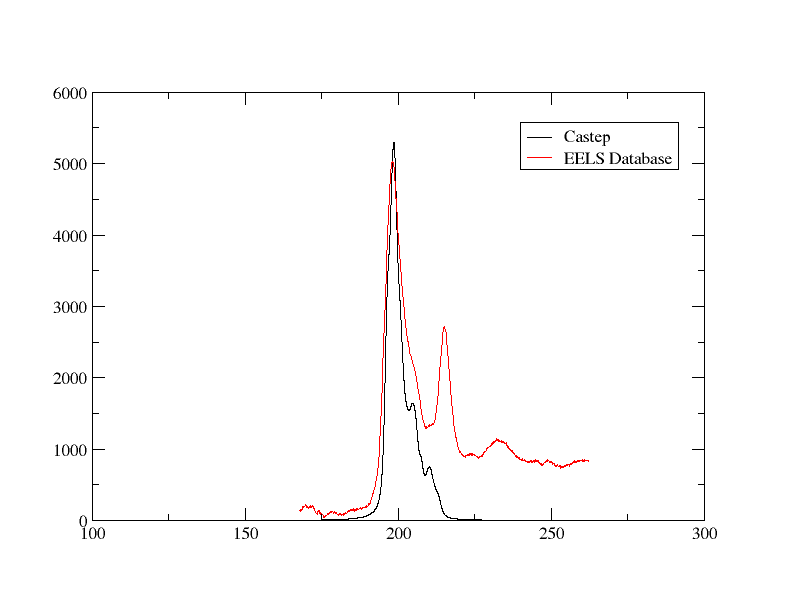
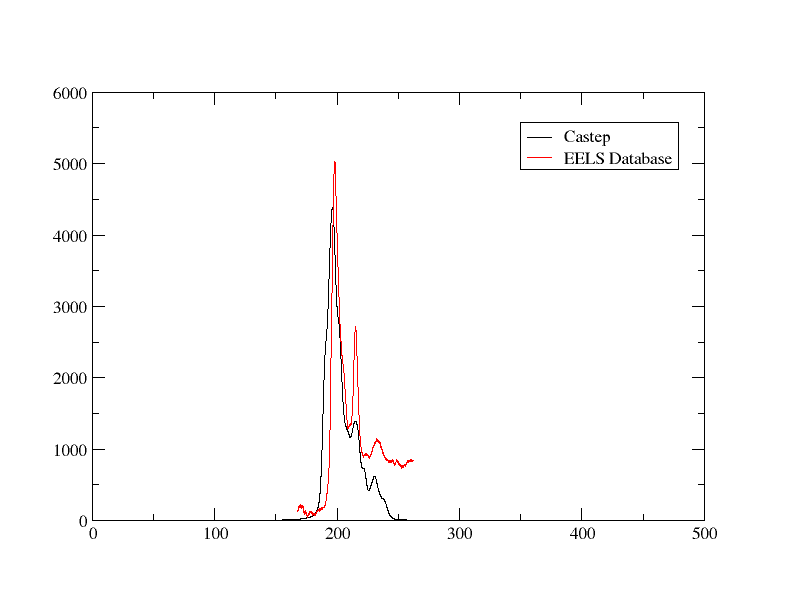
Rewrote for what I did to get nicer results

diff --git a/docs/tutorials/Coreloss/Coreloss.md b/docs/tutorials/Coreloss/Coreloss.md
@@ -121,13 +121,13 @@ B 2|1.2|12|14|16|20:21(qc=8){1s1.00}
 
 to calculate the core edge data factoring in the missing 1s electron.
 !!! note
-    Your potential may be different, depending on your version of Castep etc. - but don't worry as the procedure is the same.
+    Your potential may be different, depending on your version of Castep etc. - but don't worry, as the procedure is the same.
 
 Before we re-run Castep, add the line
 
-`CHARGE : +1`
+`CHARGE : -1`
 
-in the `cbn.param` file - this must be done to maintain charge neutrality.  Next, re-run Castep. Let's have a quick look at the pseudopotential report of boron in `cbn.castep`
+to the `cbn.param` file - this must be done to maintain charge neutrality.  Next, re-run Castep. Let's have a quick look at the pseudopotential report of boron in `cbn.castep`
 
 ```
 ============================================================                
@@ -163,18 +163,17 @@ You should notice that the energies in the 2s and 2p orbitals are lower, the bet
 Now, re-run Optados. This create the same files as before. Again, let's focus on the boron result. The output file `bn_B1K1_core_edge.dat` now starts like:
 
 ```
--0.1658927622868E+02    0.0000000000000E+00    0.0000000000000E+00    0.0000000000000E+00    0.2380874466795E-04    0.2380871874215E-04    0.4761746341010E-04
--0.1657927571493E+02    0.0000000000000E+00    0.0000000000000E+00    0.0000000000000E+00    0.2381712134151E-04    0.2381709540197E-04    0.4763421674348E-04
-
+-16.879627404257498        0.0000000000000000        4.3418325679994708E-005
+-16.869627177952179        0.0000000000000000        4.3433042280034070E-005
 ```
 
-This time, there are 6 columns: the first 2 are the normal broadened data, the 3rd is the sum of those 2, the next 2 are the instrumentation-broadened data and the 6th column is the sum of the previous 2 columns again. We are only interested in the 1st and 4th column (counting energy as the 0th) for this tutorial. Plotting it with the same batch file as [above](Coreloss.md#plot_bat) (with the 2nd block being "1:5" instead of "1:3" to reflect the different column used)  yields us this graph:
+The columns represent the same information as before. Plotting it with the same batch file as [above](Coreloss.md#plot_bat) yields us this graph:
 
 ![1s missing core edge](1s_missing.png){width="50%"}
 
 ## Supercell
 
-The periodic images of the core-hole will interact with one another.  As this is unphysical, we need to increase the distance between the core-holes. This is done by creating a supercell.  To do this, we will create a 2x2x1 supercell. There are multiple ways of doing this, but this tutorial will cover how it can be done using [Vesta](https://jp-minerals.org/vesta/en/). First, upload the `cell` file we used to Vesta. From the top of the toolbar, go into `Edit -> Edit Data -> Unit cell...`. This should open up a window that looks like this
+The periodic images of the core-hole will interact with one another.  As this is unphysical, we need to increase the distance between the core-holes. This is done by creating a supercell.  To do this, we will create a 2x2x2 supercell. There are multiple ways of doing this, but this tutorial will cover how it can be done using [Vesta](https://jp-minerals.org/vesta/en/). First, upload the `cell` file we used to Vesta. From the top of the toolbar, go into `Edit -> Edit Data -> Unit cell...`. This should open up the window below
 
 ![Edit unit cell window](cell_window.png)
 
@@ -184,7 +183,7 @@ Click `Transform...`. This opens up a new window
 
 To create the 2x2x2 supercell, the transformation matrix is rather simple: make the diagonal values 2 like in the figure above (so it becomes 2x larger in all directions) and click `Ok`. Select `Search atoms in the new unit-cell and add them as new sites` in the next pop-up window.
 
-Now that the supercell has been generated, we must save it and turn it into a cell file. Click `File -> Export Data` and save it as  `cbn.cif` file (saving it as a `cell` file is not an option). We can use `cif2cell cbn.cif` to get information on how to make the new cell - we can change the `cell` file to look like this
+Now that the supercell has been generated, we must save it and turn it into a cell file. Click `File -> Export Data` and save it as  `cbn.cif` file (saving it as a `cell` file is not an option). We can use `cif2cell cbn.cif` to get information on how to make the new cell. We change `cbn.cell` to:
 
 *cbn.cell*
 ```
@@ -225,7 +224,7 @@ spectral_kpoint_mp_grid 5 5 5
 
 With double the size of the supercell, you may also halve the kpoints: this allows it to be calculated faster without losing accuracy. However, it will still take significantly longer to calculate.
 
-Specifying 1 of the boron atoms to be called `B:exi` and making changing the potential block to only affect that means that we simulate only 1 of the boron atoms losing that electron - by doing this we prevent the interaction problem mentioned above. Re-run Castep and Optados. There will now be 16 output files, rather than just 2 - there is a core edge output for every atom - `bn_ B 1    K1     B:exi_core_edge.dat` is the core edge result for the boron with the missing 1s electron. The spaces in the file name are a bit awkward so let's rename it to `bn_BExi.dat` Let's plot it on xmgrace, using the same method as before (again there are 6 columns, so plot "1:2" and "1:5" - also set include the lines `WORLD XMIN 10` and `WORLD XMAX 40` in the batch file to look at a more reasonable range). This is the output:
+Specifying 1 of the boron atoms to be called `B:exi` and making changing the potential block to only affect that means that we simulate only 1 of the boron atoms losing that electron - by doing this we prevent the interaction problem mentioned above. Re-run Castep and Optados. There will now be 16 output files, rather than just 2 - there is a core edge output for every atom - `cbn_ B 1    K1     B:exi_core_edge.dat` is the core edge result for the boron with the missing 1s electron. The spaces in the file name can be a bit awkward so let's rename it to `cbn_BExi.dat`. Let's plot it on xmgrace, using the same method as before (include the lines `WORLD XMIN 10` and `WORLD XMAX 40` in the batch file to look at a more reasonable range). This is the output:
 
 ![Supercell 1s output](222_super.png)
 
@@ -234,21 +233,21 @@ Specifying 1 of the boron atoms to be called `B:exi` and making changing the pot
 To compare properly to experiment, we will need to adjust the lifetime broadening; the supercell EELS results we just obtained are unrealistic as you cannot measure the spectrum so precisely. To account for that, we can add both Lorentzian and Gaussian broadening - add these lines to the `cbn.odi` file
 
 ```
-LAI_LORENTZIAN_WIDTH : 1
-LAI_LORENTZIAN_SCALE : 1
-LAI_LORENTZIAN_OFFSET : 25
+LAI_LORENTZIAN_WIDTH : 0.5
+LAI_LORENTZIAN_SCALE : 0.5
+LAI_LORENTZIAN_OFFSET : 18
 
 LAI_GAUSSIAN_WIDTH : 1
 ```
 
-And plot the lifetime broadened result with xmgrace.
+And plot the lifetime broadened result (we're not interested in the un-broadened result so remove the `1:2` block from the batch file) with xmgrace.
 
 !!! note
     You can combine Gaussian and Lorentzian broadening, as is done above. Off-setting Lorentzian broadening can also be done to adjust the appearance of the graph - this is all done to try make it look more like experimental data. Feel free to tinker with the broadening.
 
 The result should look like this:
 
-![Attempt to make similar to experiment](best_could_get.png)
+![Attempt to make similar to experiment](broadened_output.png)
 
 Compare this output with the one from the [EELS Database](https://eelsdb.eu/spectra/cubic-boron-nitride/). You should see that they look reasonably similar.
 
@@ -256,13 +255,14 @@ You may wish to plot the 2 results together. To do this, first download the `msa
 
 We can do this by using a Python script
 
-```Python
-with open('bn_BExi.dat', 'r') as infile, open('bn_BExi_ss.dat', 'w') as outfile:
+```py
+with open('bn_ B 1    K1     B:exi_core_edge.dat', 'r') as infile, open('bn_BExi_ss.dat', 'w>
     for line in infile:
         columns = line.split()
-        col1 = float(columns[0]) + 180
-        col5 = float(columns[4]) * 2000000
+        col1 = (float(columns[0]) * 3) + 140
+        col5 = float(columns[2]) * 750000
         outfile.write(f"{col1} {col5}\n")
+
 ```
 
 and then plotting the 2 sets of results together by using xmgrace on the batch file
@@ -282,6 +282,8 @@ S1 LEGEND "EELS Database"
 The output should look like this:
 
 ![Experimental and Castep plotted together](together.png)
+
+You can see that they are reasonably similar - the peaks are in similar positions. However, in a real real EELS spectrum, the spectrum doesn't fall to 0 but rather a finite value, unlike what was calculated here. 
 
 Other things to try include:
 
